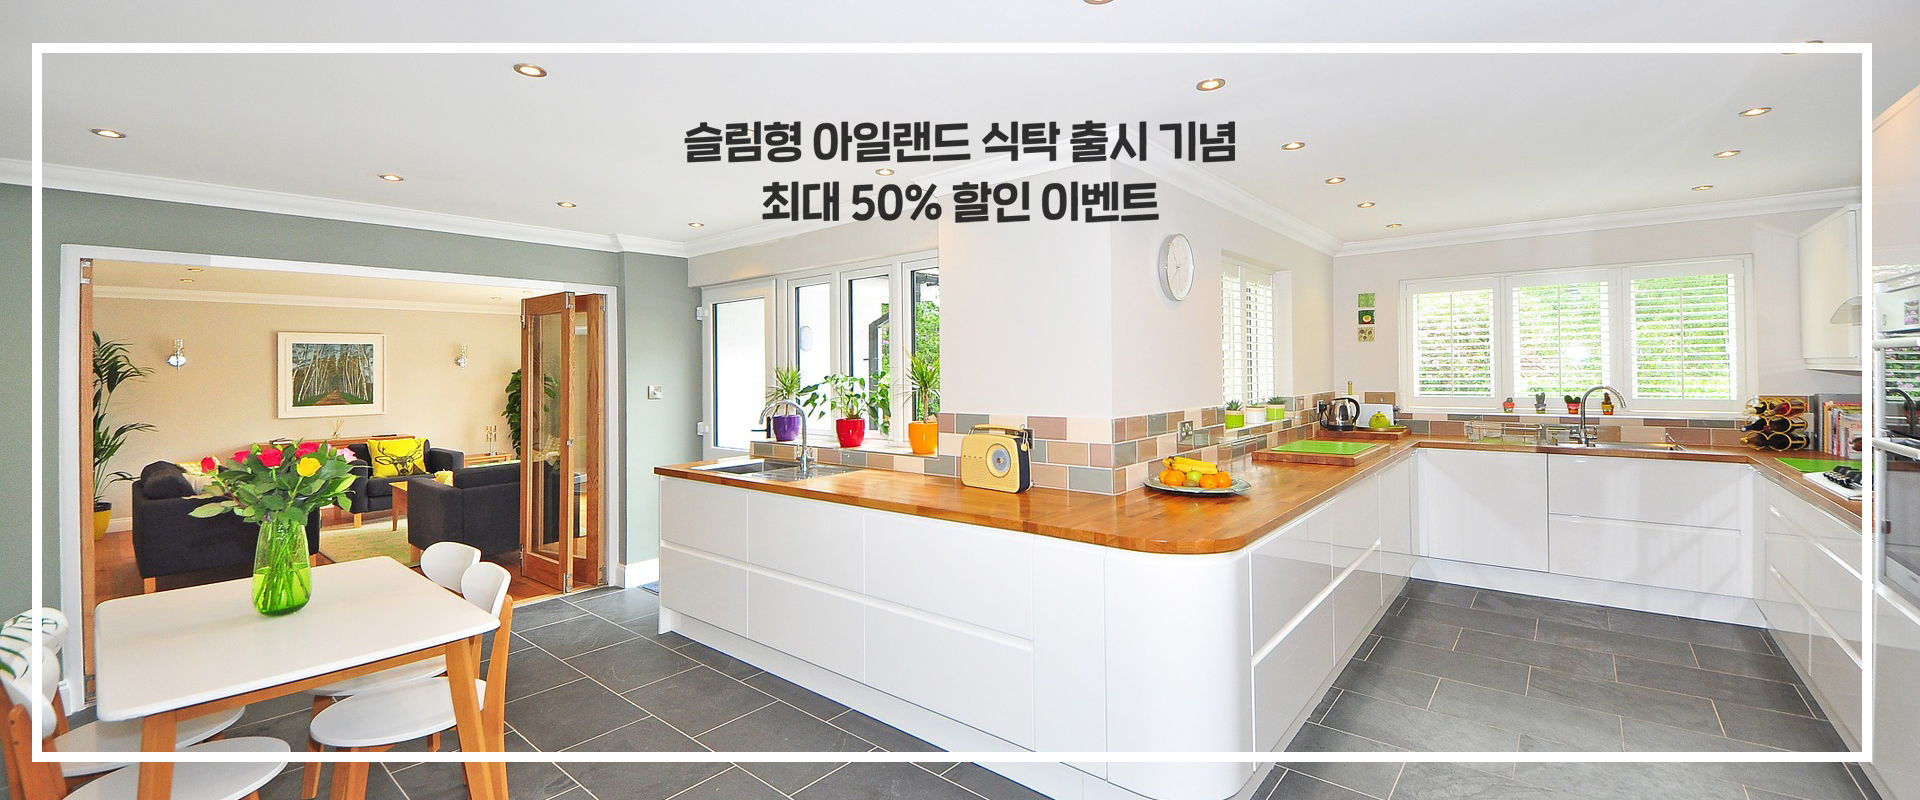
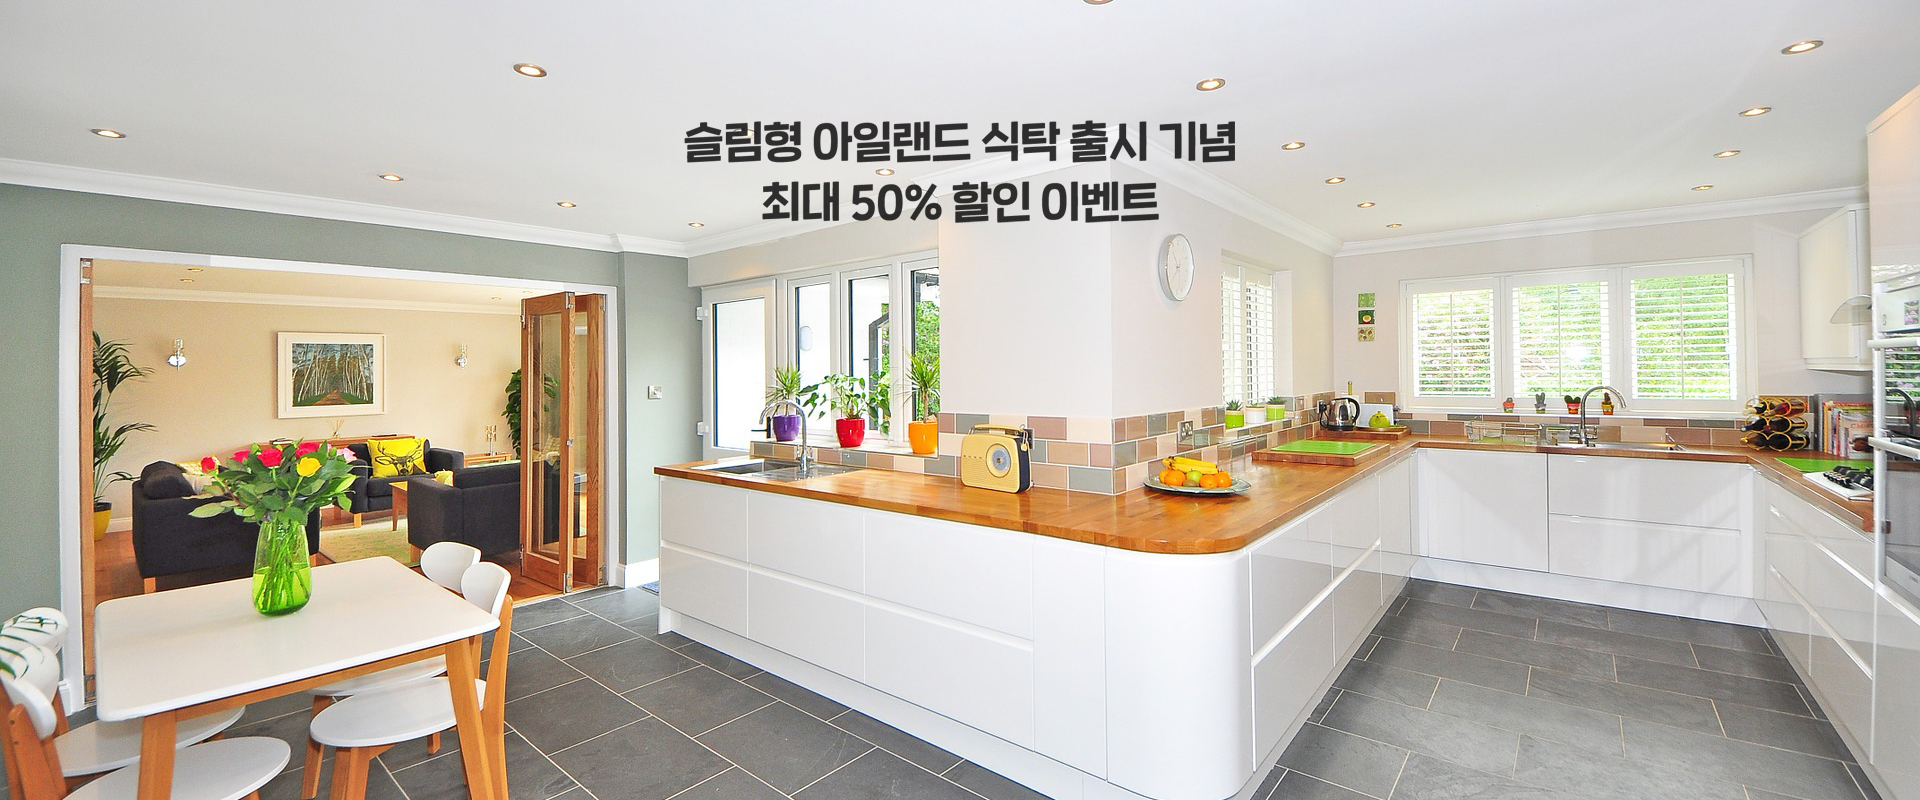
2

Changed region(s): [[0.0, 0.0312, 0.5938, 0.9688], [0.5938, 0.0312, 1.0, 0.9375], [0.625, 0.9375, 0.9688, 0.9688]]

diff --git a/cozyroom/index.html b/cozyroom/index.html
@@ -8,8 +8,7 @@
     <link href="https://fonts.googleapis.com/css2?family=Noto+Sans+KR&display=swap" rel="stylesheet">
     <link rel="stylesheet" href="https://cdnjs.cloudflare.com/ajax/libs/font-awesome/5.13.0/css/all.min.css">
     <script src="https://cdnjs.cloudflare.com/ajax/libs/jquery/3.5.1/jquery.min.js"></script>
-    <script src="jq.js"></script>
-    <title>Document</title>
+    <title>cozyroom</title>
 </head>
 
 <body>
@@ -618,6 +617,8 @@
     </div>
 
     <div class="top-btn none"><span>TOP</span></div>
+
+    <script src="jq.js"></script>
 </body>
 
 </html>

diff --git a/cozyroom/style.css b/cozyroom/style.css
@@ -396,7 +396,7 @@ html.on body {
 }
 
 .small-header>.sub-menu>.menu-box>.inner {
-    width: 40%;
+    width: 45%;
     height: 100%;
     background-color: white;
 }
@@ -466,7 +466,6 @@ html.on body {
 .slider-bar {
     width: 100%;
     height: 700px;
-    /* margin-top: 50px; */
 }
 
 .small-slider-bar {
@@ -496,7 +495,7 @@ html.on body {
     position: absolute;
     width: 100%;
     height: 100%;
-    background-position: center;
+    background-position: top;
     background-size: cover;
     background-repeat: no-repeat;
     opacity: 0;

diff --git a/cozyroom/jq.js b/cozyroom/jq.js
@@ -43,7 +43,7 @@ $(document).on('click', '.page-btn>div', function () {
 
 setInterval(function () {
     $('.side-btn>.right').click();
-}, 3000);
+}, 5000);
 
 $(document).on('click', 'a', function (e) {
     if ($(this).attr('href') == '#') {
